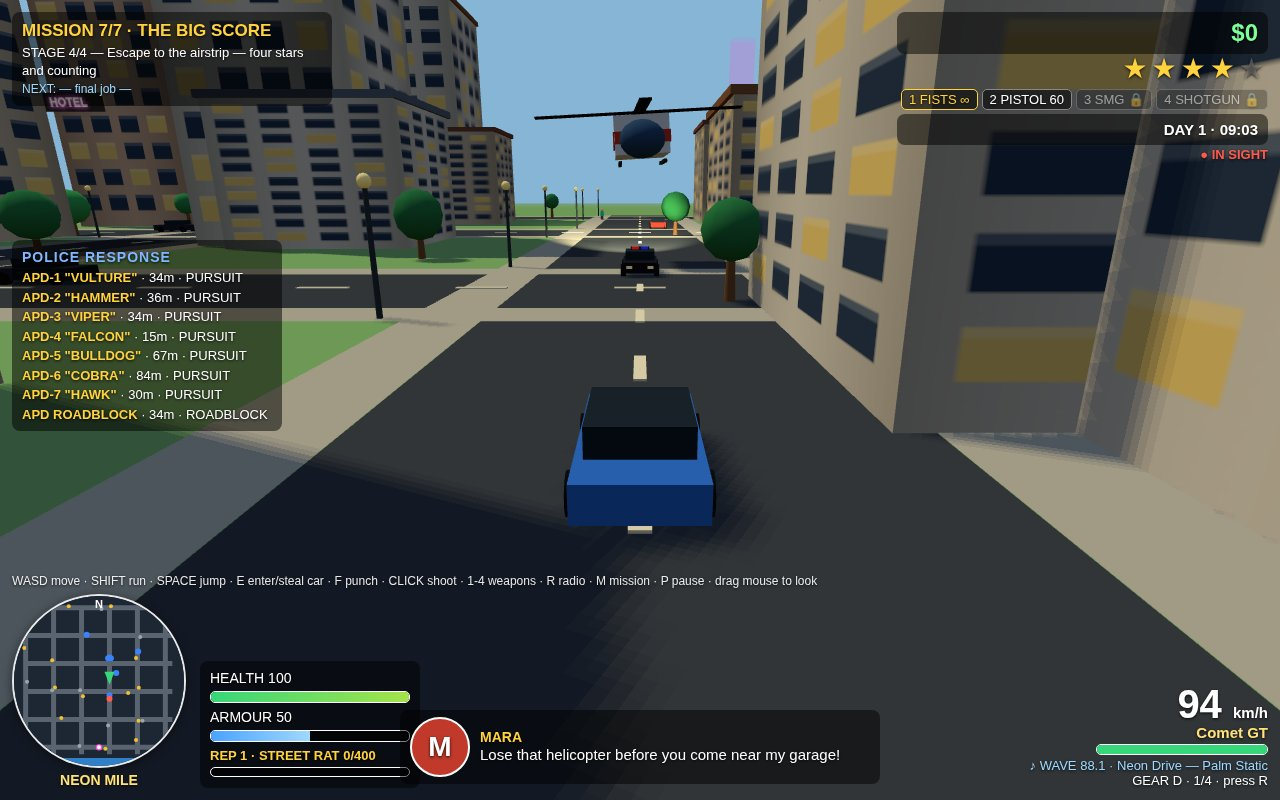
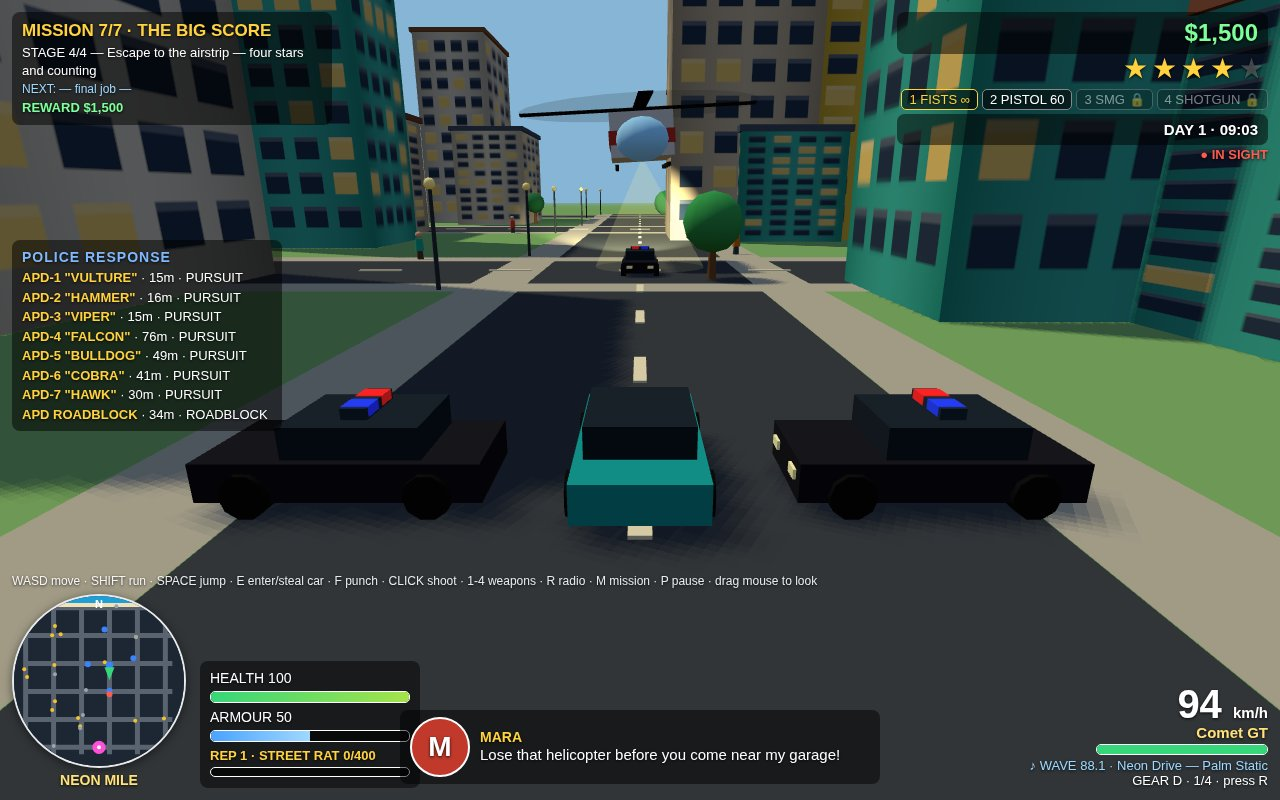
Visual richness: beach + ocean + palms, colorful buildings, starting money, better helicopter

diff --git a/game/src/city.js b/game/src/city.js
@@ -7,6 +7,8 @@ import { BLOCK, GRID, HALF, PITCH, ROAD, ROAD_CENTERS } from './config.js';
 import { pick, range, rangeInt } from './rng.js';
 
 const WALL_COLORS = [0xe8dcc8, 0xd9c4a5, 0xc9b8a3, 0xb8c4c9, 0xe0b48f, 0xf2e3c6, 0xc7d3c0, 0xdba58a];
+// Bright sun-soaked facades: pink, orange, teal, yellow, coral, sky, purple.
+const BRIGHT_COLORS = [0xff7bac, 0xff8a3d, 0x2fb8a6, 0xffd23e, 0xff6b5e, 0x7dd3fc, 0xc084fc];
 const ROOF_COLORS = [0x8a5a3b, 0x5a6b7a, 0x7a4a3a, 0x4a5a6b, 0x9a7a4a];
 const TREE_COLORS = [0x2f8f4e, 0x3aa655, 0x2a7a44];
 
@@ -74,6 +76,40 @@ function makeTree(rng) {
   return g;
 }
 
+// A real palm: tall leaning trunk, a ring of long drooping fronds, coconuts.
+function makePalm(rng) {
+  const g = new THREE.Group();
+  const lean = range(rng, -0.12, 0.12);
+  const trunkMat = new THREE.MeshLambertMaterial({ color: 0x8a6a45 });
+  const trunk = new THREE.Mesh(new THREE.CylinderGeometry(0.16, 0.3, 5.2, 7), trunkMat);
+  trunk.position.set(0, 2.6, 0); trunk.rotation.z = lean; trunk.castShadow = true;
+  g.add(trunk);
+  const topX = -Math.sin(lean) * 5.2, topY = 5.2 * Math.cos(lean);
+  const frondMat = new THREE.MeshLambertMaterial({ color: pick(rng, [0x2fae5f, 0x37b24d, 0x27a35c]) });
+  const nFronds = 7;
+  for (let i = 0; i < nFronds; i++) {
+    const a = (i / nFronds) * Math.PI * 2 + range(rng, -0.2, 0.2);
+    // Pivot rotated around Y so the frond points radially outward; the frond
+    // itself is tilted down (droop) around the pivot's local X.
+    const pivot = new THREE.Group();
+    pivot.position.set(topX, topY - 0.1, 0);
+    pivot.rotation.y = a;
+    const frond = new THREE.Mesh(new THREE.BoxGeometry(0.55, 0.06, 2.6), frondMat);
+    frond.position.set(0, -0.15, 1.15);
+    frond.rotation.x = 0.55; // far end droops toward the ground
+    frond.castShadow = true;
+    pivot.add(frond);
+    g.add(pivot);
+  }
+  const nutMat = new THREE.MeshLambertMaterial({ color: 0x6b4a2a });
+  for (let i = 0; i < 3; i++) {
+    const nut = new THREE.Mesh(new THREE.SphereGeometry(0.22, 6, 5), nutMat);
+    nut.position.set(topX + range(rng, -0.3, 0.3), topY - 0.45, range(rng, -0.3, 0.3));
+    g.add(nut);
+  }
+  return g;
+}
+
 function makeLamp() {
   const g = new THREE.Group();
   const pole = new THREE.Mesh(
@@ -93,8 +129,10 @@ function makeLamp() {
 export function buildCity(scene, rng) {
   const aabbs = [];
   const textures = [];
-  for (let i = 0; i < 5; i++) {
-    const hex = '#' + new THREE.Color(pick(rng, WALL_COLORS)).getHexString();
+  // Mix of muted and bright sun-soaked facades (about half the buildings pop).
+  for (let i = 0; i < 7; i++) {
+    const pal = i < 4 ? WALL_COLORS : BRIGHT_COLORS;
+    const hex = '#' + new THREE.Color(pick(rng, pal)).getHexString();
     textures.push(windowTexture(rng, hex, 0.25));
   }
 
@@ -113,10 +151,44 @@ export function buildCity(scene, rng) {
   scene.add(beach);
   const sea = new THREE.Mesh(
     new THREE.PlaneGeometry(HALF * 2 + 260, 160),
-    new THREE.MeshLambertMaterial({ color: 0x2f7fc9 }),
+    new THREE.MeshLambertMaterial({ color: 0x1f9fd6 }),
   );
   sea.rotation.x = -Math.PI / 2; sea.position.set(0, -0.2, -HALF - 26 - 80); sea.receiveShadow = true;
   scene.add(sea);
+  // White foam where the waves meet the sand, plus a second foam line further out.
+  const foamMat = new THREE.MeshLambertMaterial({ color: 0xeaf7ff });
+  for (const fz of [-152, -168]) {
+    const foam = new THREE.Mesh(new THREE.PlaneGeometry(HALF * 2 + 260, 1.6), foamMat);
+    foam.rotation.x = -Math.PI / 2; foam.position.set(0, -0.1, fz);
+    scene.add(foam);
+  }
+  // Palm-lined beach: a row of palms along the sand, and a wooden pier at x=-78
+  // reaching into the sea (the beach road's landmark, right ahead in the dusk shot).
+  for (let x = -120; x <= 120; x += 11) {
+    const palm = makePalm(rng);
+    palm.position.set(x + range(rng, -3, 3), 0, -133 + range(rng, -4, 4));
+    palm.rotation.y = rng() * Math.PI * 2;
+    scene.add(palm);
+  }
+  {
+    const pierMat = new THREE.MeshLambertMaterial({ color: 0x8a6a45 });
+    const pier = new THREE.Group();
+    const deck = new THREE.Mesh(new THREE.BoxGeometry(6, 0.5, 34), pierMat);
+    deck.position.set(0, 0.6, 0); deck.castShadow = true; deck.receiveShadow = true;
+    pier.add(deck);
+    for (let pz = -15; pz <= 15; pz += 6) {
+      for (const px of [-2.6, 2.6]) {
+        const post = new THREE.Mesh(new THREE.CylinderGeometry(0.22, 0.22, 2.2, 6), pierMat);
+        post.position.set(px, -0.2, pz);
+        pier.add(post);
+      }
+    }
+    const pierEnd = new THREE.Mesh(new THREE.BoxGeometry(10, 0.5, 6), pierMat);
+    pierEnd.position.set(0, 0.6, -19); pierEnd.castShadow = true;
+    pier.add(pierEnd);
+    pier.position.set(-78, 0, -156);
+    scene.add(pier);
+  }
 
   // Roads: asphalt strips with pale sidewalks on each side, dashed centre lines.
   const asphalt = new THREE.MeshLambertMaterial({ color: 0x3a3f46 });
@@ -162,11 +234,17 @@ export function buildCity(scene, rng) {
       scene.add(b.group);
       aabbs.push(b.aabb);
     }
-    // Trees at block corners.
+    // Trees at block corners; palms in the beachfront (southern) row.
     for (let k = 0; k < 2; k++) {
       const t = makeTree(rng);
       t.position.set(bc.x + (rng() < 0.5 ? -14 : 14), 0, bc.z + (rng() < 0.5 ? -14 : 14));
       scene.add(t);
+    }
+    if (bc.z < -80) {
+      const palm = makePalm(rng);
+      palm.position.set(bc.x + (rng() < 0.5 ? -13 : 13), 0, bc.z + (rng() < 0.5 ? -13 : 13));
+      palm.rotation.y = rng() * Math.PI * 2;
+      scene.add(palm);
     }
   }
   // Lamps along roads.
@@ -185,9 +263,11 @@ export function buildCity(scene, rng) {
     { text: 'HOTEL', color: '#ff4fd8' }, { text: 'BAR', color: '#37e0ff' },
     { text: 'CASINO', color: '#ffd23e' }, { text: 'PIER', color: '#7dff9a' },
     { text: 'TACOS', color: '#ff8a3d' }, { text: 'CLUB', color: '#b06bff' },
+    { text: 'SUNSET', color: '#ff6b5e' }, { text: 'PIER 9', color: '#7dd3fc' },
+    { text: 'WAVES', color: '#2fb8a6' },
   ];
   const neonMeshes = [];
-  for (let i = 0; i < 8; i++) {
+  for (let i = 0; i < 11; i++) {
     const bc = blockCenters[Math.floor(rng() * blockCenters.length)];
     const n = NEON[i % NEON.length];
     const c = document.createElement('canvas');
@@ -201,10 +281,10 @@ export function buildCity(scene, rng) {
     const tex = new THREE.CanvasTexture(c);
     tex.colorSpace = THREE.SRGBColorSpace;
     const sign = new THREE.Mesh(
-      new THREE.PlaneGeometry(9, 2.25),
+      new THREE.PlaneGeometry(12, 3),
       new THREE.MeshBasicMaterial({ map: tex, transparent: false }),
     );
-    sign.position.set(bc.x + range(rng, -10, 10), range(rng, 8, 16), bc.z + (rng() < 0.5 ? -19 : 19));
+    sign.position.set(bc.x + range(rng, -10, 10), range(rng, 10, 20), bc.z + (rng() < 0.5 ? -19 : 19));
     sign.rotation.y = sign.position.z > bc.z ? 0 : Math.PI;
     scene.add(sign);
     neonMeshes.push(sign);

diff --git a/game/src/heli.js b/game/src/heli.js
@@ -5,17 +5,35 @@ import * as THREE from '../vendor/three.module.min.js';
 export function makeHeliMesh() {
   const g = new THREE.Group();
   // Bright white body so the chopper reads against the blue sky (a dark-navy body
-  // vanished at distance); red stripe + dark tail for a police look.
+  // vanished at distance); red stripe + light-blue glass cockpit + POLICE decals.
   const bodyMat = new THREE.MeshLambertMaterial({ color: 0xf2f2f2 });
   const body = new THREE.Mesh(new THREE.BoxGeometry(2.4, 1.6, 4.6), bodyMat);
   body.castShadow = true;
   const stripe = new THREE.Mesh(new THREE.BoxGeometry(2.5, 0.5, 4.7), new THREE.MeshLambertMaterial({ color: 0xd23c2e }));
   stripe.position.set(0, -0.1, 0);
-  const nose = new THREE.Mesh(new THREE.SphereGeometry(1.0, 10, 8), new THREE.MeshLambertMaterial({ color: 0x2c4a6e }));
+  const nose = new THREE.Mesh(new THREE.SphereGeometry(1.0, 10, 8), new THREE.MeshLambertMaterial({ color: 0x9fd8ff, emissive: 0x1a3a55 }));
   nose.position.set(0, -0.2, 2.4); nose.scale.set(1, 0.8, 1);
+  // POLICE decals on both flanks so the chopper reads as a police helicopter.
+  const pc = document.createElement('canvas');
+  pc.width = 256; pc.height = 64;
+  const pg = pc.getContext('2d');
+  pg.clearRect(0, 0, 256, 64);
+  pg.font = 'bold 44px Arial'; pg.textAlign = 'center'; pg.textBaseline = 'middle';
+  pg.fillStyle = '#b02020'; pg.fillText('POLICE', 128, 34);
+  const ptex = new THREE.CanvasTexture(pc);
+  ptex.colorSpace = THREE.SRGBColorSpace;
+  for (const side of [-1, 1]) {
+    const decal = new THREE.Mesh(
+      new THREE.PlaneGeometry(2.6, 0.65),
+      new THREE.MeshBasicMaterial({ map: ptex, transparent: true }),
+    );
+    decal.position.set(side * 1.26, 0.35, 0);
+    decal.rotation.y = side * Math.PI / 2;
+    g.add(decal);
+  }
   const tail = new THREE.Mesh(new THREE.BoxGeometry(0.5, 0.5, 4.2), bodyMat);
   tail.position.set(0, 0.3, -4.2);
-  const fin = new THREE.Mesh(new THREE.BoxGeometry(0.2, 1.4, 1.0), bodyMat);
+  const fin = new THREE.Mesh(new THREE.BoxGeometry(0.2, 1.4, 1.0), new THREE.MeshLambertMaterial({ color: 0xd23c2e }));
   fin.position.set(0, 0.9, -6.0);
   const skidMat = new THREE.MeshLambertMaterial({ color: 0x222222 });
   for (const x of [-1.0, 1.0]) {
@@ -31,6 +49,14 @@ export function makeHeliMesh() {
     rotor.add(blade);
   }
   rotor.position.y = 1.1;
+  // Translucent blur disc so the spinning rotor reads as a disc, not a cross.
+  const blur = new THREE.Mesh(
+    new THREE.CircleGeometry(4.8, 24),
+    new THREE.MeshBasicMaterial({ color: 0x111111, transparent: true, opacity: 0.16, side: THREE.DoubleSide, depthWrite: false }),
+  );
+  blur.rotation.x = -Math.PI / 2;
+  blur.position.y = 1.12;
+  g.add(blur);
   const tailRotor = new THREE.Mesh(new THREE.BoxGeometry(0.08, 2.2, 0.3), bladeMat);
   tailRotor.position.set(0.35, 0.7, -6.0);
   // Searchlight: a cone of light + a bright disc at the ground.
@@ -43,6 +69,13 @@ export function makeHeliMesh() {
   const pool = new THREE.Mesh(poolGeo, new THREE.MeshBasicMaterial({ color: 0xfff2a0, transparent: true, opacity: 0.3, depthWrite: false }));
   pool.rotation.x = -Math.PI / 2;
   g.add(body); g.add(stripe); g.add(nose); g.add(tail); g.add(fin); g.add(rotor); g.add(tailRotor); g.add(spot); g.add(pool);
+  // Visible light beam: a translucent cone from the belly to the ground.
+  const beam = new THREE.Mesh(
+    new THREE.ConeGeometry(4.2, 8, 20, 1, true),
+    new THREE.MeshBasicMaterial({ color: 0xfff2a0, transparent: true, opacity: 0.10, side: THREE.DoubleSide, depthWrite: false }),
+  );
+  beam.position.set(0, -4.8, 1.5);
+  g.add(beam);
   g.userData = { rotor, tailRotor, spot, spotTarget, pool };
   return g;
 }
@@ -50,7 +83,7 @@ export function makeHeliMesh() {
 export function createHeli(scene) {
   const mesh = makeHeliMesh();
   mesh.visible = false;
-  mesh.scale.set(1.4, 1.4, 1.4); // bigger silhouette so it reads at chase distance
+  mesh.scale.set(1.6, 1.6, 1.6); // bigger silhouette so it reads at chase distance
   scene.add(mesh);
   return { mesh, active: false, x: 0, y: 34, z: 0, angle: 0 };
 }

diff --git a/game/src/shots.js b/game/src/shots.js
@@ -48,7 +48,7 @@ export function stageShot(name, game) {
     g.missions.stage = 3; // escape stage, so the panel reads STAGE 4/4
     g.missions.dialog = { who: 'MARA', text: 'Lose that helicopter before you come near my garage!' };
     g.missions.dialogT = 99;
-    const car = driveCar(g, 18, -60, 0, 24);
+    const car = driveCar(g, 18, -48, 0, 24);
     if (car) car.name = 'Comet GT';
     g.spawnPoliceNear(3, 12);
     g.radio.station = 0;
@@ -76,14 +76,15 @@ export function stageShot(name, game) {
     return;
   }
   if (name === 'dusk') {
-    // Sunset: neon signs, orange sky, player driving the beach road, wanted 1.
+    // Sunset: neon signs, orange sky, player driving the beach road south toward
+    // the sea — palms, pier and sunset over the water ahead, wanted 1.
     g.setDusk(true);
     g.clockMinutes = 18 * 60 + 30; // 18:30 — the clock must match the sunset sky
     g.setWanted(1);
     g.radio.station = 3;
-    const car = driveCar(g, -78, -100, Math.PI / 2, 16);
+    const car = driveCar(g, -78, -70, Math.PI, 16);
     if (car) car.name = 'Palm Runner';
-    g.missions.dialog = { who: 'LENA', text: 'Azura Bay at sunset. Even the cops look good in this light.' };
+    g.missions.dialog = { who: 'LENA', text: 'Sunset on the beach road. Even the cops look good in this light.' };
     g.missions.dialogT = 99;
     simulate(g, SIM_SECONDS);
     if (car) car.speed = 16; // re-accelerate so the speedo reads like a drive, not a stall
@@ -94,12 +95,18 @@ export function stageShot(name, game) {
   g.teleportPlayer(18, 18, Math.PI);
   g.missions.dialog = { who: 'DEX', text: 'Nice day for a walk, Jax. The city is yours — if you can take it.' };
   g.missions.dialogT = 99;
-  // Pull three pedestrians onto the sidewalks ahead of the player so the shot shows
+  // Pull six pedestrians onto the sidewalks ahead of the player so the shot shows
   // foot traffic, not an empty street.
-  const pedSpots = [[10.5, 8], [25.5, 2], [10.5, -6]];
+  const pedSpots = [[10.5, 8], [25.5, 2], [10.5, -6], [25.5, 12], [14, -14], [28, -10]];
   pedSpots.forEach((s, i) => {
     const p = g.peds[i];
     if (p) { p.x = s[0]; p.z = s[1]; p.angle = Math.PI / 2; p.sync(); }
   });
+  // Two traffic cars on the player's road, driving toward the camera, so the
+  // street reads as alive.
+  const t0 = g.traffic[0];
+  if (t0) { t0.x = 18; t0.z = -24; t0.angle = 0; t0.speed = 9; t0.sync(); }
+  const t1 = g.traffic[1];
+  if (t1) { t1.x = 18; t1.z = -44; t1.angle = 0; t1.speed = 9; t1.sync(); }
   simulate(g, SIM_SECONDS);
 }

diff --git a/game/src/hud.js b/game/src/hud.js
@@ -2,7 +2,7 @@
 // day+time / IN SIGHT (top-right), police response (mid-left), round minimap + district
 // (bottom-left), health/armour/REP (bottom-left), character dialogue with portrait
 // (bottom-centre), speedometer + car name + condition + radio + gear (bottom-right).
-import { HALF, ROAD_CENTERS, districtAt } from './config.js';
+import { HALF, ROAD_CENTERS, districtAt, MISSION_REWARDS } from './config.js';
 import { SPEAKERS } from './missions.js';
 import { weaponHud } from './weapons.js';
 import { unitList } from './wanted.js';
@@ -37,12 +37,14 @@ export function updateHud(game) {
     mt.querySelector('.mobj').textContent = `STAGE ${ms.stage + 1}/${m.stages.length} — ${st.text}`;
     mt.querySelector('.mnext').textContent = next ? `NEXT: ${next.name}` : 'NEXT: — final job —';
     mt.querySelector('.mtimer').textContent = ms.timer > 0 ? `⏱ ${Math.ceil(ms.timer)}s` : '';
+    mt.querySelector('.mreward').textContent = `REWARD $${MISSION_REWARDS[ms.active].toLocaleString('en-US')}`;
   } else {
     const nextId = game.nextMissionId();
     mt.querySelector('.mtitle').textContent = nextId >= 0 ? `MISSION ${nextId + 1}/7 READY` : 'ALL 7 MISSIONS DONE';
     mt.querySelector('.mobj').textContent = nextId >= 0 ? game.missionDefs[nextId].name : 'Free roam — Azura Bay is yours.';
     mt.querySelector('.mnext').textContent = nextId >= 0 ? 'Press M to start' : '';
     mt.querySelector('.mtimer').textContent = '';
+    mt.querySelector('.mreward').textContent = nextId >= 0 ? `REWARD $${MISSION_REWARDS[nextId].toLocaleString('en-US')}` : '';
   }
   // Top-right.
   $('money').textContent = `$${p.money.toLocaleString('en-US')}`;
@@ -134,8 +136,12 @@ function drawMinimap(game) {
     const [x4, y4] = toMap(HALF, r);
     mapCtx.beginPath(); mapCtx.moveTo(x3, y3); mapCtx.lineTo(x4, y4); mapCtx.stroke();
   }
-  mapCtx.fillStyle = '#2f7fc9';
-  mapCtx.fillRect(0, H - 8, W, 8);
+  // Coastline: the beach and sea sit south of the grid (negative Z), which maps
+  // to the top of the minimap — sand band, then blue sea at the very top edge.
+  mapCtx.fillStyle = '#f2e2b8';
+  mapCtx.fillRect(0, 7, W, 4);
+  mapCtx.fillStyle = '#1f9fd6';
+  mapCtx.fillRect(0, 0, W, 7);
   const dot = (x, z, color, r) => {
     const [mx, my] = toMap(x, z);
     mapCtx.fillStyle = color;

diff --git a/game/index.html b/game/index.html
@@ -16,6 +16,7 @@
   #mission .mobj { font-size: 13px; }
   #mission .mnext { font-size: 12px; color: #9fd8ff; }
   #mission .mtimer { font-size: 15px; font-weight: bold; color: #ff8a7a; }
+  #mission .mreward { font-size: 13px; font-weight: bold; color: #7dff9a; }
   /* Top-right: money, wanted, weapons, clock, sight */
   #topright { position: absolute; top: 12px; right: 12px; text-align: right; }
   #money { font-size: 24px; font-weight: bold; color: #7dff9a; }
@@ -80,7 +81,7 @@
 <body>
 <canvas id="game" aria-label="Azura Bay: an open-world crime game. Walk, drive, steal cars, escape the police and finish missions."></canvas>
 <div id="hud">
-  <div id="mission" class="panel"><div class="mtitle">NO MISSION</div><div class="mobj">Press M to start the next job</div><div class="mnext"></div><div class="mtimer"></div></div>
+  <div id="mission" class="panel"><div class="mtitle">NO MISSION</div><div class="mobj">Press M to start the next job</div><div class="mnext"></div><div class="mtimer"></div><div class="mreward"></div></div>
   <div id="topright">
     <div id="money" class="panel">$0</div>
     <div id="wanted"><span class="off">★</span><span class="off">★</span><span class="off">★</span><span class="off">★</span><span class="off">★</span></div>

diff --git a/game/src/main.js b/game/src/main.js
@@ -205,7 +205,7 @@ const game = {
   },
   reset() {
     player.x = 18; player.z = 18; player.y = 0; player.angle = 0;
-    player.health = 100; player.armour = 50; player.money = 0; player.rep = 0;
+    player.health = 100; player.armour = 50; player.money = 1500; player.rep = 0;
     player.inCar = null; player.mesh.visible = true;
     player.mesh.position.set(18, 0, 18);
     clearWanted(wanted, scene);
@@ -414,7 +414,7 @@ let screen = 'menu';
 let paused = false;
 
 function applySave(d) {
-  player.money = d.money ?? 0;
+  player.money = d.money ?? 1500;
   player.health = d.health ?? 100;
   player.armour = d.armour ?? 50;
   player.rep = d.rep ?? 0;

diff --git a/game/src/player.js b/game/src/player.js
@@ -31,7 +31,7 @@ export function createPlayer(scene, x, z) {
   const mesh = makePlayerMesh();
   scene.add(mesh);
   const p = {
-    mesh, x, z, y: 0, vy: 0, angle: 0, health: 100, armour: 50, money: 0, rep: 0,
+    mesh, x, z, y: 0, vy: 0, angle: 0, health: 100, armour: 50, money: 1500, rep: 0,
     inCar: null, speed: 0, walkPhase: 0, onGround: true, punchCooldown: 0, shootCooldown: 0,
   };
   p.mesh.position.set(x, 0, z);

diff --git a/README.md b/README.md
@@ -10,7 +10,7 @@ A complete sun-soaked 3D open-world crime game, built for make.fun's **"Make GTA
 
 ## The city
 
-Azura Bay is a sunny coastal city: a 5×5 block grid of procedural buildings with lit windows, palm trees, neon signs (HOTEL, BAR, CASINO, PIER, TACOS, CLUB), a beach and the sea to the south, and seven named districts — Old Port, Docklands, Marina Walk, Palm Heights, Neon Mile, Coral Row, Sunset Quay.
+Azura Bay is a sunny coastal city: a 5×5 block grid of procedural buildings with lit windows and brightly coloured facades (pink, orange, teal, yellow), palm trees, neon signs (HOTEL, BAR, CASINO, PIER, TACOS, CLUB, SUNSET, PIER 9, WAVES), a palm-lined beach, a wooden pier and the sea to the south, and seven named districts — Old Port, Docklands, Marina Walk, Palm Heights, Neon Mile, Coral Row, Sunset Quay. Jax starts with $1,500 and every mission pays a cash reward.
 
 ## What is in the game
 
